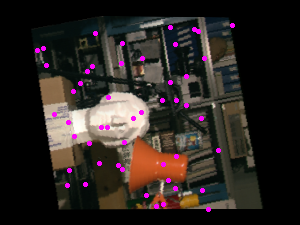
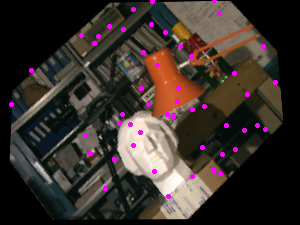
Handled noisy sampled correspondences

diff --git a/methods.py b/methods.py
@@ -11,8 +11,8 @@ image_augmentator = T.Compose([T.RandomAffine(degrees=170, translate=(0, 0.2)),
 
 
 def stack_image_with_spatialgrid(images: torch.Tensor) -> torch.Tensor:
-    us = torch.arange(0, images.shape[-2], 1, dtype=torch.float32, device=images.device)
-    vs = torch.arange(0, images.shape[-1], 1, dtype=torch.float32, device=images.device)
+    us = torch.arange(1, images.shape[-2] + 1, 1, dtype=torch.float32, device=images.device)
+    vs = torch.arange(1, images.shape[-1] + 1, 1, dtype=torch.float32, device=images.device)
     grid = torch.meshgrid(us, vs, indexing='ij')
     spatial_grid = torch.stack(grid)
 
@@ -43,17 +43,12 @@ def augment_images_and_map_correspondence(images: torch.Tensor,
     # Compute correspondence from the spatial grid
     for grid_a, grid_b in zip(grids_a, grids_b):
 
-        valid_pixels_a = torch.where(grid_a.sum(dim=0) != 0.0)
-
-        us = valid_pixels_a[0]
-        vs = valid_pixels_a[1]
-
-        # Reducing computation costs
+        valid_pixels_a = torch.where(grid_a.sum(dim=0) >= 1.0)
+        us, vs = valid_pixels_a[0], valid_pixels_a[1]
         trimming_indices = torch.linspace(0, us.shape[0] - 1, steps=10 * n_correspondence)
-        us = us[trimming_indices.long()].type(torch.float32)
-        vs = vs[trimming_indices.long()].type(torch.float32)
+        us, vs = us[trimming_indices.long()], vs[trimming_indices.long()]
+        valid_pixels_a = torch.vstack([us, vs]).permute(1, 0).type(torch.float32)
 
-        valid_pixels_a = torch.vstack([us, vs]).permute(1, 0)
         valid_grids_a = grid_a[:, us.long(), vs.long()].permute(1, 0)
         tiled_valid_grids_a = valid_grids_a.view(valid_grids_a.shape[0], valid_grids_a.shape[1], 1, 1)
 
